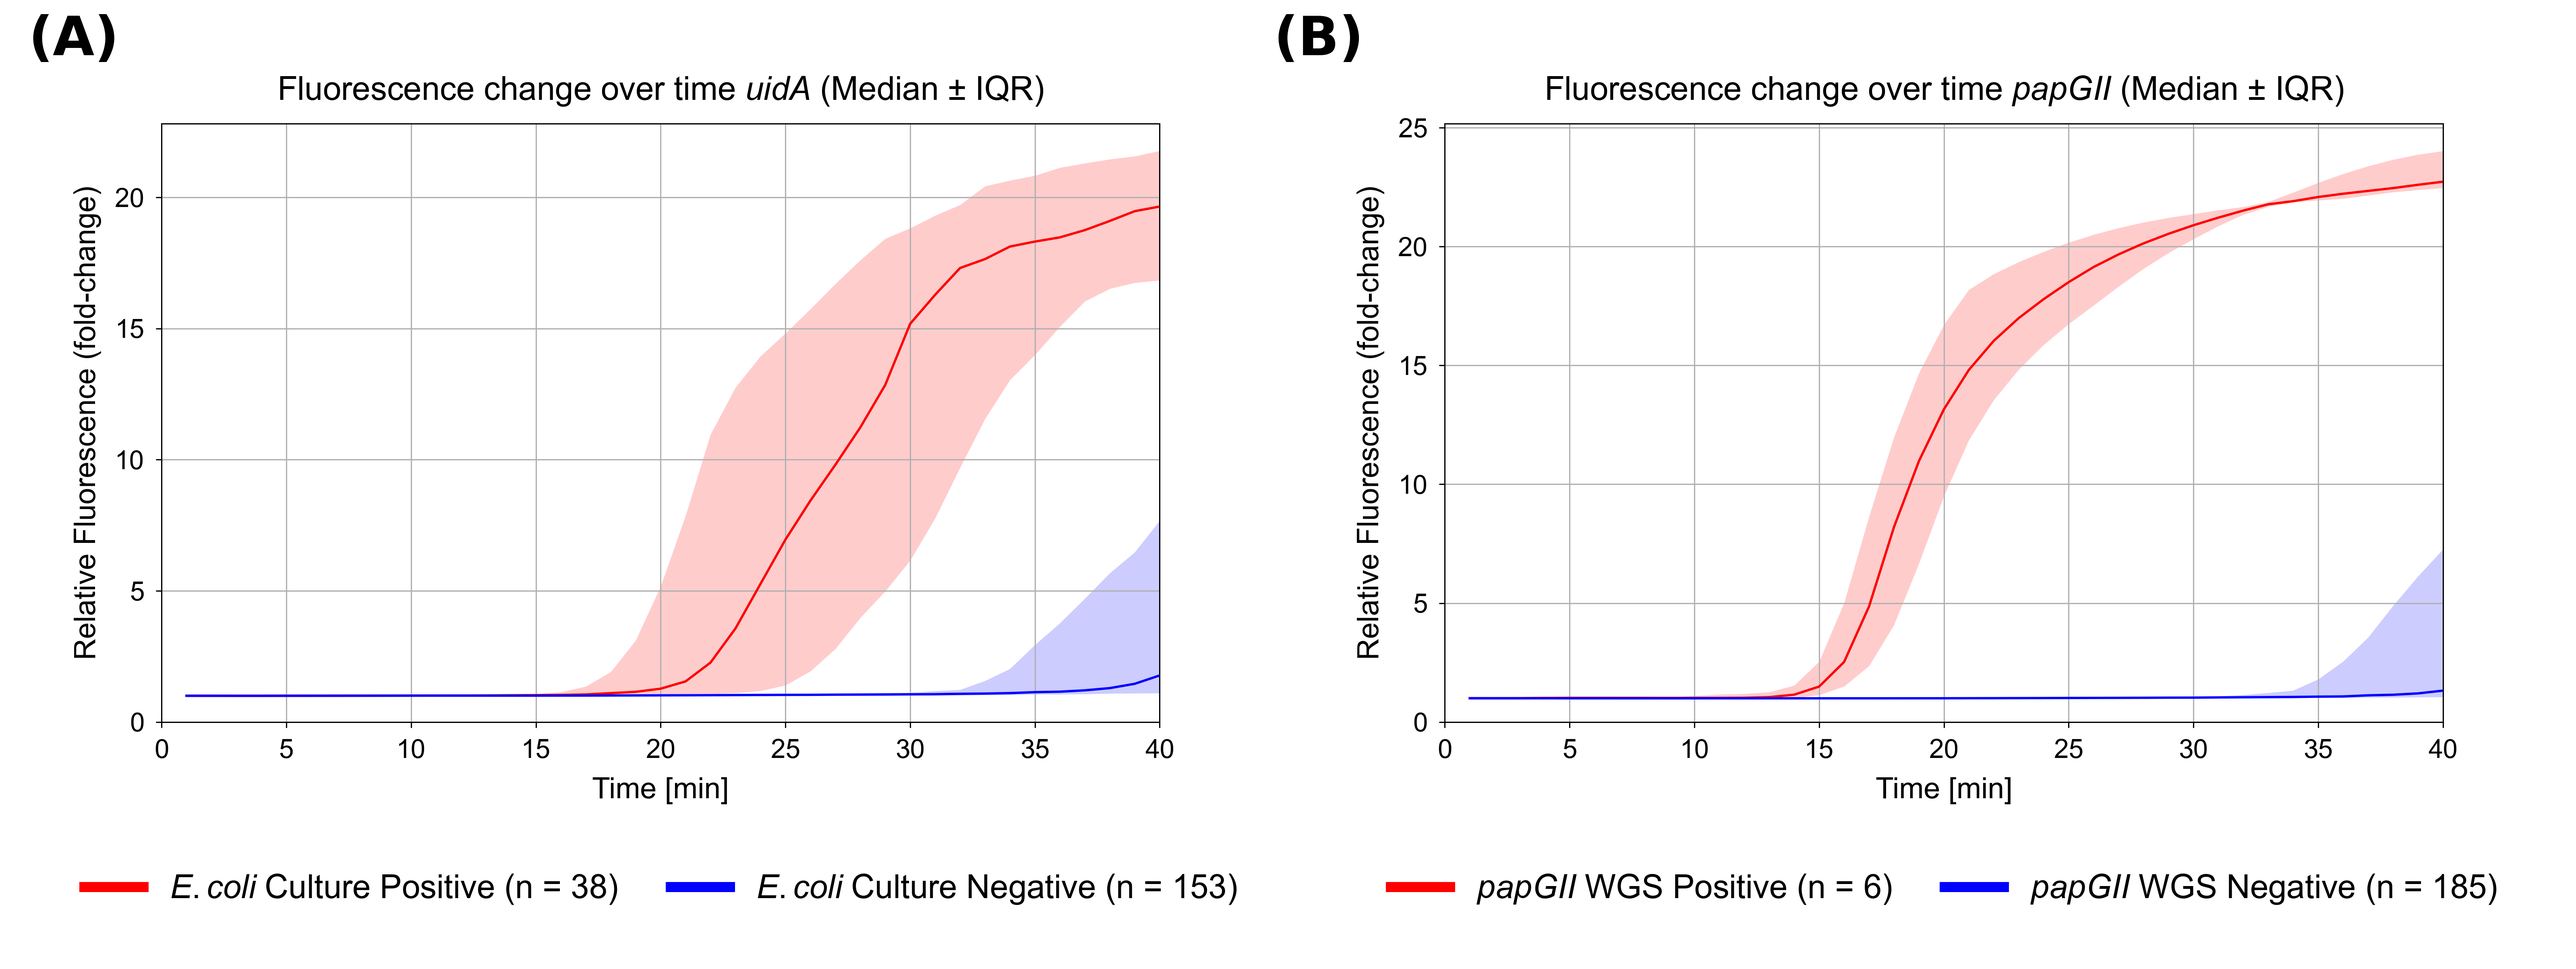
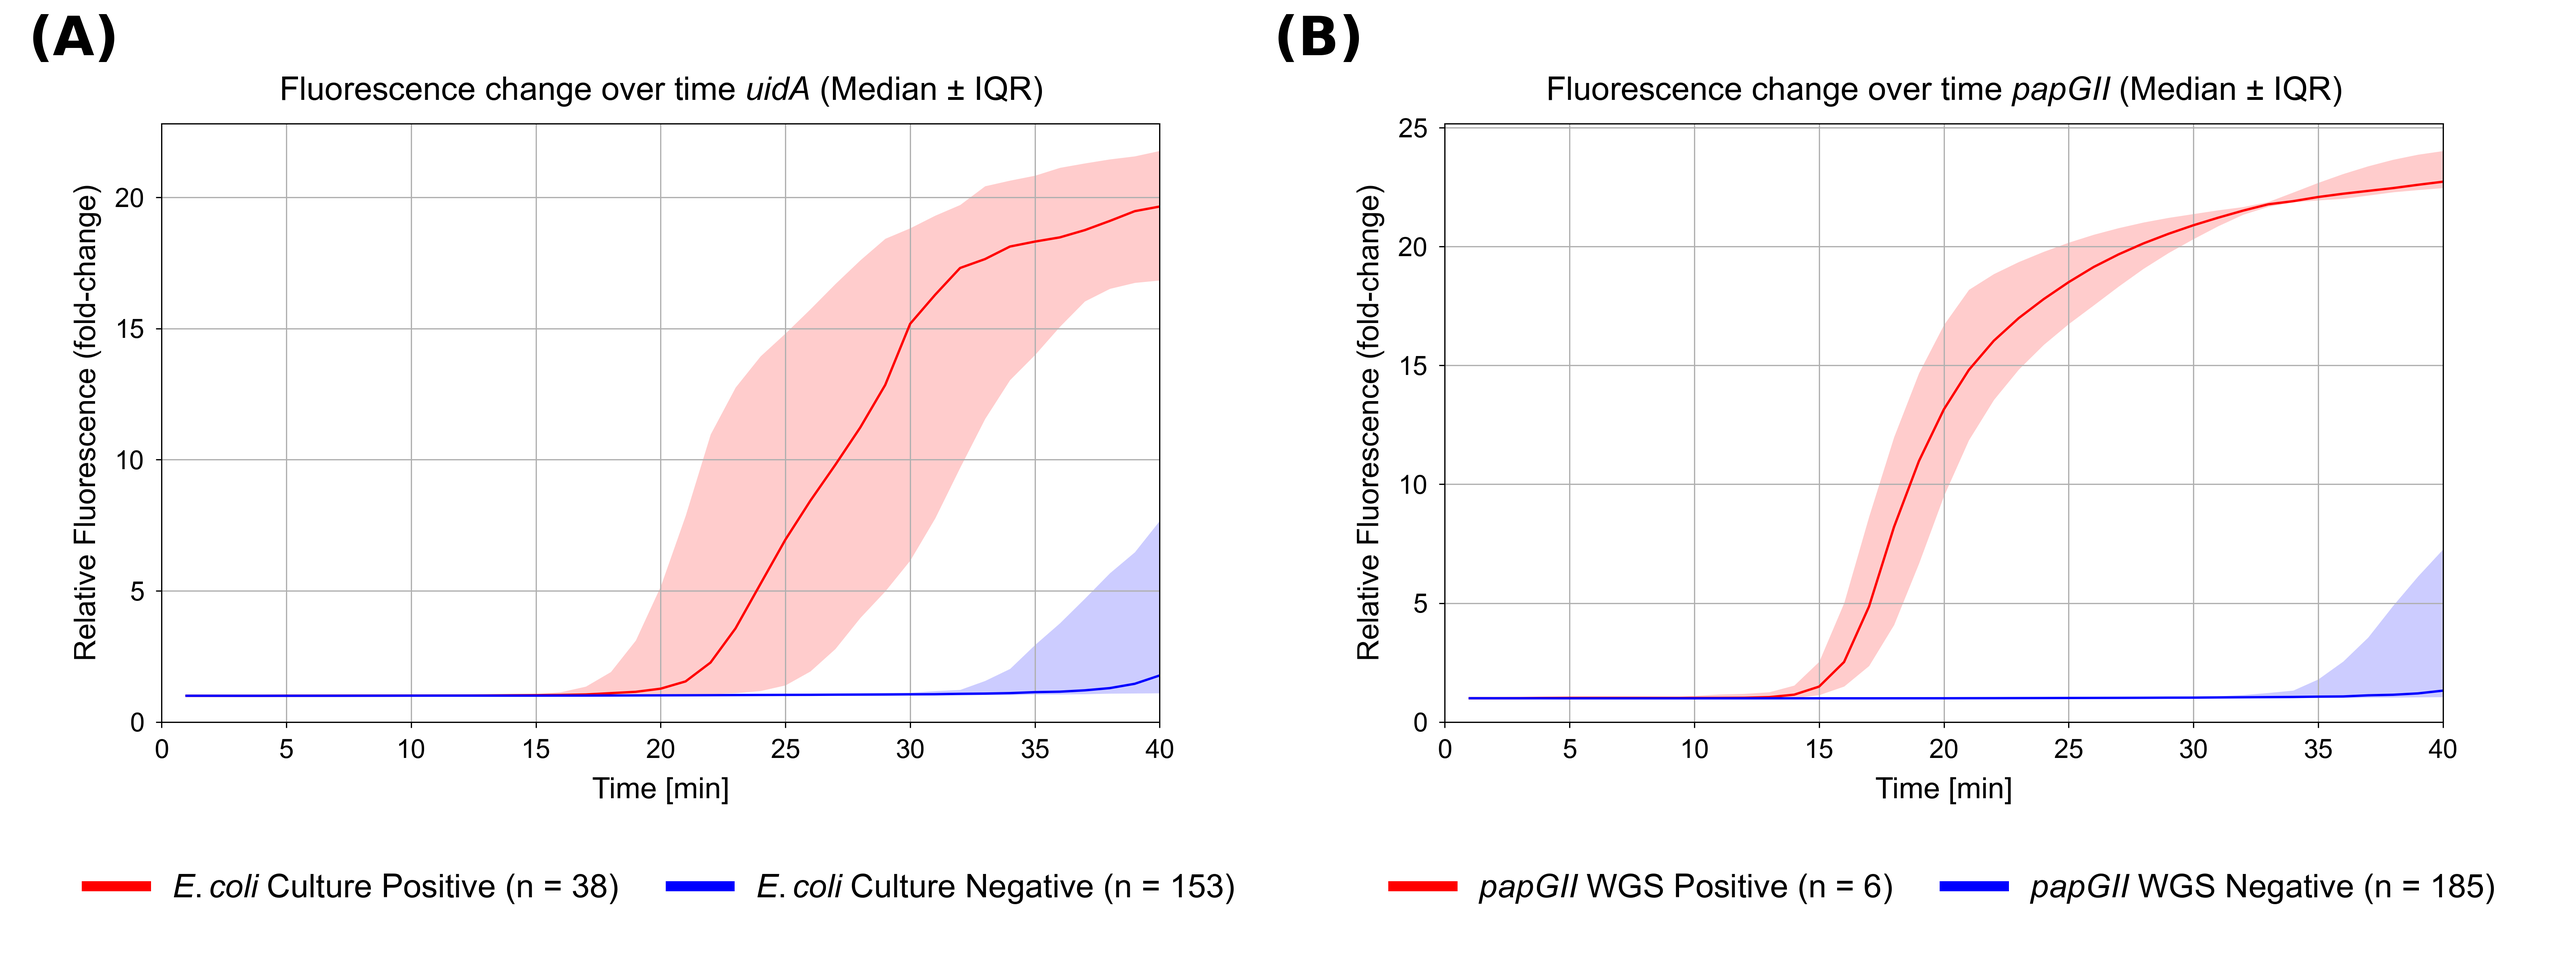
Figure 3: font sizes derived from the Figure 2 B/C scale (exact match)

diff --git a/scripts/fig3_curves.py b/scripts/fig3_curves.py
@@ -17,8 +17,8 @@ OUT = RESULTS / "figures"
 mpl.rcParams.update({"font.family": "sans-serif", "font.sans-serif": ["Arial", "Helvetica", "DejaVu Sans"],
                      "mathtext.fontset": "custom", "mathtext.rm": "Arial", "mathtext.it": "Arial:italic", "mathtext.bf": "Arial:bold",
                      "pdf.fonttype": 42, "svg.fonttype": "none", "svg.hashsalt": "lamp-fig3"})
-TITLE, LABEL, TICK, LEGEND = 9.8, 8.8, 7.9, 9.8
-SC = 0.465   # Figure 2 B/C are the 10 x 6 in notebook plots scaled to this factor; line weights are scaled the same way
+SC = 0.465   # Figure 2 B/C are the 10 x 6 in notebook plots scaled to this factor (fonts 21 / 19 / 17 pt, line weights scaled the same way)
+TITLE, LABEL, TICK, LEGEND = 21 * SC, 19 * SC, 17 * SC, 21 * SC
 mpl.rcParams.update({"lines.linewidth": 1.5 * SC, "axes.linewidth": 0.8 * SC, "grid.linewidth": 0.8 * SC,
                      "xtick.major.size": 3.5 * SC, "ytick.major.size": 3.5 * SC,
                      "xtick.major.width": 0.8 * SC, "ytick.major.width": 0.8 * SC})
